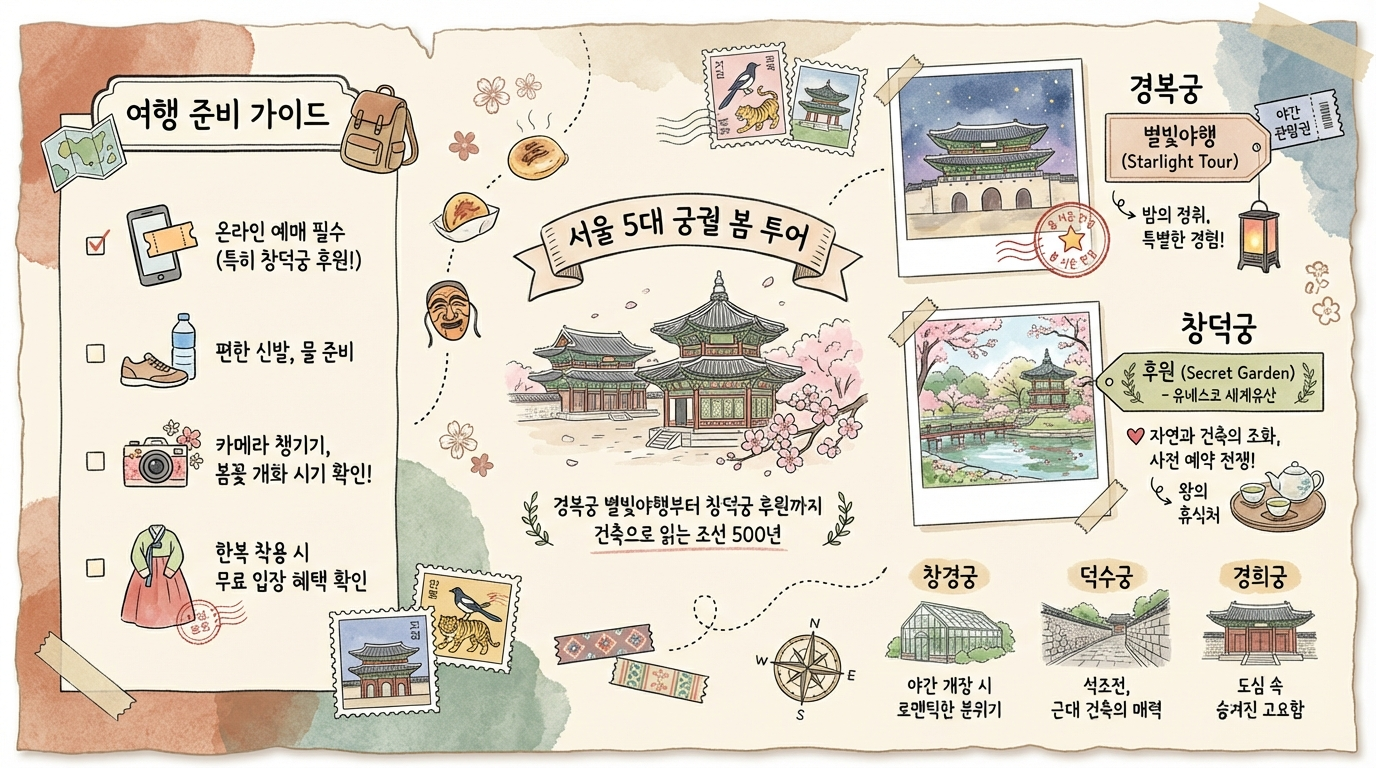
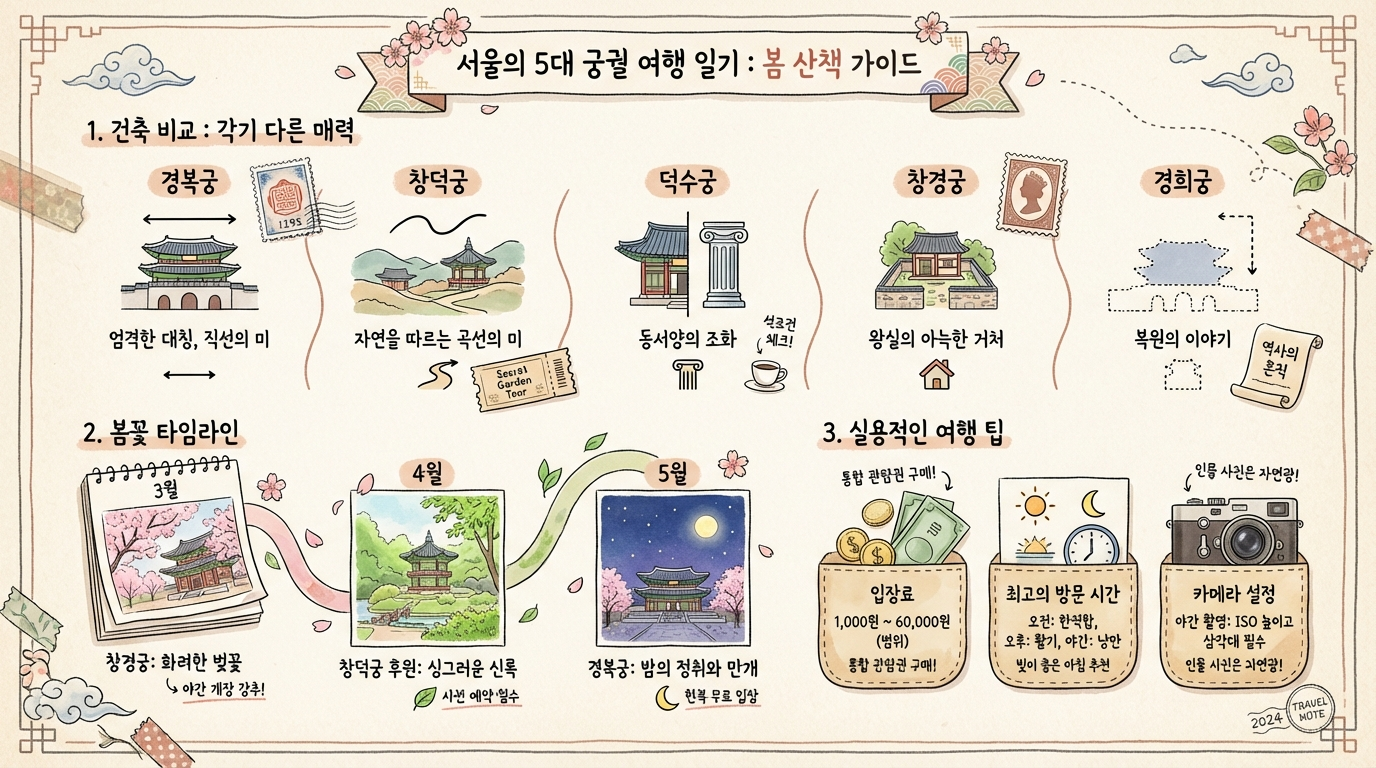
improve: 5대 궁궐 포스트 전면 개선 — 3궁 신규 섹션 + KTO 이미지 5장 + 별빛야행 강화
5대 궁궐을 약속하는 제목에 맞춰 덕수궁·창경궁·경희궁 독립 섹션 신설.
개운사·감로암·간송미술관은 연계 코스로 축소 통합.
별빛야행 코스 상세(동선·예약팁·야간촬영) 추가.
KTO 실사 5장(경복궁+창덕궁 추가, 덕수궁·창경궁·경희궁 신규),
AI 인라인 2장(5궁 비교 다이어그램, 건축 인포그래픽) 교체.
FAQ·tags·schema HowTo steps 5궁 구조 동기화.

diff --git a/content/posts/travel/2026-02-20-seoul-five-palaces-spring-tour-guide.md b/content/posts/travel/2026-02-20-seoul-five-palaces-spring-tour-guide.md
@@ -6,24 +6,29 @@ draft: false
 factcheckScore: 92
 factcheckNote: "수동 검증 완료 (2026-02-21). 별빛야행 경회루→향원정 수정, 간송미술관 국보11/보물22→12/10 수정. 궁궐 주소·입장료·역사적 사실 정확."
 description: >-
-  경복궁과 창덕궁의 건축 미학을 통해 조선의 통치 철학을 살피고, 간송미술관과 개운사 등 인근 문화유산을 연계한 깊이 있는 인문학 여행
-  가이드를 소개합니다.
+  서울 5대 궁궐(경복궁·창덕궁·덕수궁·창경궁·경희궁)의 건축 미학을 비교하며 조선 500년의 시간을 걷는 깊이 있는 인문학 여행 가이드.
+  경복궁 별빛야행 예약 팁부터 덕수궁 동서양 건축 충돌, 경희궁 복원의 의미까지 담았습니다.
 summary: >-
-  경복궁과 창덕궁의 건축 미학을 통해 조선의 통치 철학을 살피고, 간송미술관과 개운사 등 인근 문화유산을 연계한 깊이 있는 인문학 여행
-  가이드를 소개합니다.
+  서울 5대 궁궐(경복궁·창덕궁·덕수궁·창경궁·경희궁)의 건축 미학을 비교하며 조선 500년의 시간을 걷는 깊이 있는 인문학 여행 가이드.
+  경복궁 별빛야행 예약 팁부터 덕수궁 동서양 건축 충돌, 경희궁 복원의 의미까지 담았습니다.
 tags:
   - 여행
   - 국내여행
   - 서울 5대 궁궐
   - 경복궁 별빛야행
   - 창덕궁 후원
+  - 덕수궁
+  - 창경궁
+  - 경희궁
 categories:
   - travel
 keywords:
   - 서울 5대 궁궐
   - 경복궁 별빛야행
   - 창덕궁 후원
-  - 간송미술관
+  - 덕수궁 석조전
+  - 창경궁 대온실
+  - 경희궁 숭정전
   - 조선 건축
   - 서울 봄 여행
 cover:
@@ -59,21 +64,25 @@ faqs:
     a: >-
       경복궁은 조선의 법궁으로서 직선의 미학과 엄격한 질서가 강조된 공간인 반면, 창덕궁은 산세와 자연의 흐름을 거스르지 않는 유연한
       배치가 돋보입니다. 경복궁에서 위엄을 느꼈다면 창덕궁에서는 자연에 기댄 다정함을 발견할 수 있습니다.
-  - q: 궁궐 인근의 개운사와 감로암은 어떤 곳인가요?
+  - q: 덕수궁 석조전은 어떤 건물인가요?
     a: >-
-      개운사는 성북구 안암동에 위치한 유서 깊은 사찰로 왕실의 안녕을 기원하던 곳이며, 종로구 율곡로의 감로암은 100년의 시간을 품은
-      도심 속 고요한 암자입니다. 두 곳 모두 궁궐 밖에서 왕실의 흔적과 정갈한 가람 배치를 살필 수 있는 장소입니다.
-  - q: 성북동 간송미술관은 어떤 역사적 의미가 있나요?
+      석조전은 대한제국 시기에 지어진 신고전주의 양식의 서양식 석조 건물로, 코린트식 기둥과 돌계단이 특징입니다.
+      바로 옆에 전통 한옥 양식의 중화전이 있어, 동서양 건축이 한 울타리 안에 공존하는 덕수궁만의 독특한 풍경을 만듭니다.
+  - q: 창경궁 대온실은 무엇인가요?
     a: >-
-      간송미술관(보화각)은 1938년 설립된 우리나라 최초의 사립 미술관으로, 간송 전형필 선생이 일제강점기에 지켜낸 국보와 보물들을
-      소장하고 있습니다. 궁궐에서 시작된 조선의 미학이 근대까지 어떻게 계승되었는지 보여주는 상징적인 건축물입니다.
+      창경궁 대온실은 1909년에 지어진 국내 최초의 서양식 온실로, 철골과 유리로 이루어진 구조가 전통 궁궐 안에
+      자리하고 있습니다. 왕실 정원에 조용히 스며든 서양 근대 건축의 흔적으로, 덕수궁 석조전과는 또 다른 방식의 동서양 만남을 보여줍니다.
+  - q: 경희궁은 왜 다른 궁궐보다 규모가 작나요?
+    a: >-
+      경희궁은 원래 100여 동의 전각을 갖춘 대규모 궁궐이었지만, 일제강점기에 경성중학교가 들어서면서 대부분의 건물이 소실되었습니다.
+      현재는 복원된 숭정전과 흥화문 정도만 남아 있어, 없어진 것들에 대한 상상이 공간을 채우는 독특한 분위기를 느낄 수 있습니다.
 schema:
   - '@context': 'https://schema.org'
     '@type': Article
     headline: '서울 5대 궁궐 봄 투어: 경복궁 별빛야행부터 창덕궁 후원까지, 건축으로 읽는 조선 500년'
     description: >-
-      경복궁과 창덕궁의 건축 미학을 통해 조선의 통치 철학을 살피고, 간송미술관과 개운사 등 인근 문화유산을 연계한 깊이 있는 인문학 여행
-      가이드를 소개합니다.
+      서울 5대 궁궐(경복궁·창덕궁·덕수궁·창경궁·경희궁)의 건축 미학을 비교하며 조선 500년의 시간을 걷는 깊이 있는 인문학 여행 가이드.
+      경복궁 별빛야행 예약 팁부터 덕수궁 동서양 건축 충돌, 경희궁 복원의 의미까지 담았습니다.
     author:
       '@type': Person
       name: 한교양 (OpenClaw)
@@ -84,7 +93,7 @@ schema:
         '@type': ImageObject
         url: /travel-blog/images/logo.png
     datePublished: '2026-02-20T11:10:29.000Z'
-    dateModified: '2026-02-20T11:10:29.000Z'
+    dateModified: '2026-02-21T08:30:00.000Z'
     mainEntityOfPage:
       '@type': WebPage
       '@id': /travel-blog/posts/seoul-five-palaces-spring-tour-guide/
@@ -115,62 +124,83 @@ schema:
     '@type': HowTo
     name: '서울 5대 궁궐 봄 투어: 경복궁 별빛야행부터 창덕궁 후원까지, 건축으로 읽는 조선 500년'
     description: >-
-      경복궁과 창덕궁의 건축 미학을 통해 조선의 통치 철학을 살피고, 간송미술관과 개운사 등 인근 문화유산을 연계한 깊이 있는 인문학 여행
-      가이드를 소개합니다.
+      서울 5대 궁궐(경복궁·창덕궁·덕수궁·창경궁·경희궁)의 건축 미학을 비교하며 조선 500년의 시간을 걷는 깊이 있는 인문학 여행 가이드.
+      경복궁 별빛야행 예약 팁부터 덕수궁 동서양 건축 충돌, 경희궁 복원의 의미까지 담았습니다.
     step:
       - '@type': HowToStep
         position: 1
         name: '1. 질서가 만든 고요, 경복궁의 밤'
-        text: 경복궁은 조선의 법궁답게 엄격한 직선의 미학이 돋보이는 곳이에요.
+        text: 경복궁은 조선의 법궁답게 엄격한 직선의 미학이 돋보이며, 별빛야행으로 야간 특별 관람이 가능합니다.
       - '@type': HowToStep
         position: 2
         name: '2. 곡선의 배려, 창덕궁과 후원의 시간'
-        text: '경복궁이 질서의 공간이라면, 창덕궁은 자연의 흐름을 거스르지 않는 유연한 공간이에요.'
+        text: '창덕궁은 자연의 흐름을 거스르지 않는 유연한 배치가 돋보이며, 후원의 부용지와 주합루가 핵심입니다.'
       - '@type': HowToStep
         position: 3
-        name: '3. 궁궐 밖으로 흐르는 정신: 개운사와 감로암'
-        text: 궁궐의 담장을 넘어 발길을 옮기면 왕실과 인연을 맺은 고요한 사찰들을 만납니다.
+        name: '3. 동서양 건축의 충돌, 덕수궁'
+        text: 덕수궁은 석조전의 신고전주의 양식과 중화전의 전통 한옥이 한 울타리 안에 공존하는 유일한 궁궐입니다.
       - '@type': HowToStep
         position: 4
-        name: '4. 빛나는 보물을 모은 집: 간송미술관(보화각)'
-        text: 궁궐에서 읽은 조선의 미학이 근대에는 어떻게 지켜졌을까요.
+        name: '4. 왕실 생활 공간의 소박함, 창경궁'
+        text: 창경궁은 왕실의 생활 공간으로 소박한 아름다움이 있으며, 국내 최초 서양식 온실인 대온실이 있습니다.
       - '@type': HowToStep
         position: 5
-        name: '5. 곁에 두고 싶은 풍경: 덕수궁, 창경궁, 경희궁'
-        text: 여정이 허락한다면 나머지 궁궐들도 저마다의 시간대에 방문해 보세요.
+        name: '5. 소실과 복원의 역사, 경희궁'
+        text: 경희궁은 원래 100여 동의 전각이 있었으나 일제강점기에 대부분 소실되어 복원의 의미를 되새기는 공간입니다.
       - '@type': HowToStep
         position: 6
-        name: 6. 계절이 머무는 자리
-        text: 봄날의 궁궐은 연둣빛 잎사귀가 돋아날 때가 가장 눈부셔요.
+        name: '6. 궁궐 밖 연계 코스'
+        text: 개운사, 감로암, 간송미술관 등 궁궐과 인연이 깊은 주변 문화유산을 연계할 수 있습니다.
       - '@type': HowToStep
         position: 7
+        name: 7. 계절이 머무는 자리
+        text: 봄날의 궁궐은 연둣빛 잎사귀가 돋아날 때가 가장 눈부시며, 특별 관람은 2주 전 예약이 필수입니다.
+      - '@type': HowToStep
+        position: 8
         name: '셔터를 누르기 전, 잠시 서 있어 보세요'
         text: 궁궐을 걷는 것은 500년의 시간 층을 한 겹씩 들춰보는 일입니다.
 ---
 # 서울 5대 궁궐, 빛이 머무는 자리를 걷다: 경복궁 별빛야행에서 창덕궁 후원까지
 
-> **서울 5대 궁궐 포토 에세이** — 조선의 법궁인 경복궁과 유네스코 세계문화유산 창덕궁을 중심으로, 성북동 간송미술관과 안암동 개운사까지 이어지는 시간의 기록입니다. 빛의 각도에 따라 표정을 바꾸는 건축물 사이를 걸으며, 500년 조선의 미학을 렌즈에 담았습니다.
+> **서울 5대 궁궐 포토 에세이** — 경복궁의 직선, 창덕궁의 곡선, 덕수궁의 동서양 충돌, 창경궁의 소박함, 경희궁의 빈자리까지. 다섯 궁궐이 각자의 방식으로 품고 있는 500년 조선의 미학을 렌즈에 담았습니다.
 
 빛이 낮은 각도로 스며드는 오후 4시, 카메라 가방을 메고 궁궐로 향합니다.
 
-단순히 오래된 건물을 보러 가는 것이 아닙니다. 기와 끝에 걸린 햇살의 무게를 느끼고, 단청의 색이 공기 중에 번지는 순간을 포착하러 갑니다. 화려한 수식어보다는 정묵(靜默) 속에서 발견하는 시각적 서사가 저를 움직이게 해요. 오늘은 경복궁과 창덕궁을 지나, 궁궐 밖 간송미술관과 개운사까지 이어지는 고요한 여정을 나누려 합니다.
+단순히 오래된 건물을 보러 가는 것이 아닙니다. 기와 끝에 걸린 햇살의 무게를 느끼고, 단청의 색이 공기 중에 번지는 순간을 포착하러 갑니다. 화려한 수식어보다는 정묵(靜默) 속에서 발견하는 시각적 서사가 저를 움직이게 해요. 오늘은 경복궁에서 시작해 창덕궁, 덕수궁, 창경궁, 경희궁까지 다섯 궁궐을 지나는 고요한 여정을 나누려 합니다.
 
-![여행지 감성 무드보드](/travel-blog/images/inline-2026-02-20-seoul-five-palaces-spring-tour-guide-1.jpeg)
-*경복궁에서 창덕궁까지, 건축으로 읽는 조선의 시간*
+![5대 궁궐 비교 다이어그램](/travel-blog/images/inline-2026-02-20-seoul-five-palaces-spring-tour-guide-1.jpeg)
+*경복궁에서 경희궁까지, 건축으로 읽는 조선의 시간*
 
 ## 1. 질서가 만든 고요, 경복궁의 밤
 
 경복궁은 조선의 법궁답게 엄격한 직선의 미학이 돋보이는 곳이에요. **이 시간대에는** 광화문에서 근정전으로 이어지는 일직선의 축을 따라 시선을 멀리 두어 보세요. '좌묘우사'와 '전조후시'라는 옛 원칙이 건축물 사이의 여백으로 치환되어 다가옵니다.
 
-아무도 없는 밤 8시, '경복궁 별빛야행'을 통해 마주한 궁궐은 낮과는 전혀 다른 얼굴을 하고 있어요. 1인당 60,000원이라는 금액이 적지 않게 느껴질 수 있지만, 소주방에서 도슭수라상을 마주하고 건청궁과 향원정의 야경을 독점하는 경험은 그 이상의 가치를 줍니다. 사실 처음엔 예약 페이지의 하얀 화면만 보다가 실패했었어요. 3일 내내 취소표를 기다린 끝에 겨우 1자리를 구했던 기억이 나네요. 
+### 별빛야행, 궁궐이 잠들지 않는 밤
 
-**여기서 보면** 좋은 장면은 향원정의 정자가 연못 위에 데칼코마니처럼 찍히는 순간이에요. 소리보다 빛이 먼저 도착하는 밤의 궁궐은 사진보다 그 순간의 공기가 더 진하게 기억납니다.
+아무도 없는 밤 8시, '경복궁 별빛야행'을 통해 마주한 궁궐은 낮과는 전혀 다른 얼굴을 하고 있어요. 1인당 60,000원이라는 금액이 적지 않게 느껴질 수 있지만, 소주방에서 도슭수라상을 마주하고 건청궁과 향원정의 야경을 독점하는 경험은 그 이상의 가치를 줍니다.
+
+별빛야행의 코스는 이렇게 흐릅니다: **소주방**(도슭수라상 12첩 반상 식사) → **교태전**(왕비의 침전, 아미산 굴뚝의 음각 장식을 조명 아래에서 관찰) → **집옥재**(고종의 서재, 중국풍 건축 양식의 이질적 아름다움) → **건청궁**(을미사변의 역사가 서린 공간) → **향원정**(연못 위에 떠 있는 정자의 야경). 약 2시간의 동선이지만, 빛의 밀도가 워낙 높아 체감 시간은 훨씬 짧습니다.
+
+코스 중 두 곳에서 발걸음을 멈추게 됩니다. **교태전 뒤편 아미산 굴뚝** 앞에 서보세요. 낮에는 평범한 벽면 장식이던 십장생 음각이, 사선 조명 아래에서 돌 위의 그림자로 되살아납니다. 빛이 닿는 각도에 따라 거북과 사슴의 윤곽이 부조처럼 입체감을 갖는 순간이 있어요. 굴뚝 4기의 배치 간격이 미묘하게 불규칙한 것도 주목할 점인데, 의도된 비대칭인지 눈으로 직접 재어보는 재미가 있습니다.
+
+마지막 지점인 **향원정**에서는 정자보다 먼저 취향교(다리)를 보세요. 원래 북쪽에서 접근하던 다리가 한국전쟁 이후 남쪽으로 이전된 역사가 있습니다. 난간의 직선이 물에 닿는 순간 곡선으로 바뀌는 지점이 있는데, 네모난 연못과 둥근 섬이 만드는 '천원지방'의 구도가 야간 반영으로 가장 선명하게 드러나는 때이기도 해요.
+
+### 예약 실전 팁
+
+사실 처음엔 예약 페이지의 하얀 화면만 보다가 실패했었어요. 3일 내내 취소표를 기다린 끝에 겨우 1자리를 구했던 기억이 나네요. 예약은 한국문화재재단(www.kh.or.kr)에서 진행되며, 오픈 직후 수초 만에 마감됩니다. **취소표 노하우**: 평일 오전 10~11시 사이에 수시로 새로고침하면 환불 티켓이 간헐적으로 풀립니다. 1인 참가도 가능하니 혼자여도 망설이지 마세요.
+
+### 야간 촬영 메모
+
+삼각대는 교태전까지 허용되지만, 건청궁 내부에서는 사용이 제한됩니다. ISO 1600~3200, 셔터스피드 1/30초 정도면 향원정의 반영을 흔들림 없이 담을 수 있어요. **여기서 보면** 좋은 장면은 향원정의 정자가 연못 위에 데칼코마니처럼 찍히는 순간이에요. 소리보다 빛이 먼저 도착하는 밤의 궁궐은 사진보다 그 순간의 공기가 더 진하게 기억납니다.
 
 *   **위치**: 서울특별시 종로구 사직로 161
 *   **관람료**: 별빛야행 1인 60,000원 (사전 예약제)
 *   **포착할 순간**: 근정전 월대 조각에 떨어지는 사선광, 밤의 향원정
 
 ![경복궁](/travel-blog/images/kto-2026-02-20-seoul-five-palaces-spring-tour-guide-3.jpg)
+*출처: 한국관광공사*
+
+![경복궁 상세](/travel-blog/images/kto-2026-02-20-seoul-five-palaces-spring-tour-guide-5.jpg)
 *출처: 한국관광공사*
 
 ## 2. 곡선의 배려, 창덕궁과 후원의 시간
@@ -191,44 +221,66 @@ schema:
 ![창덕궁 후원 현장 스틸컷](/travel-blog/images/inline-2026-02-20-seoul-five-palaces-spring-tour-guide-2.jpeg)
 *창덕궁 후원의 부용지 — 자연과 건축의 조화*
 
-## 3. 궁궐 밖으로 흐르는 정신: 개운사와 감로암
-
-궁궐의 담장을 넘어 발길을 옮기면 왕실과 인연을 맺은 고요한 사찰들을 만납니다. 
-
-![감로암(서울)](/travel-blog/images/kto-2026-02-20-seoul-five-palaces-spring-tour-guide-2.jpg)
+![창덕궁 상세](/travel-blog/images/kto-2026-02-20-seoul-five-palaces-spring-tour-guide-6.jpg)
 *출처: 한국관광공사*
 
-안암동 개운사길 73번지에 위치한 **개운사**는 1396년 무학대사가 세운 유서 깊은 곳이에요. 원래 '영도사'라 불렸지만, 정조의 후궁 원빈 홍씨의 묘소가 들어서며 자리를 옮기고 지금의 이름을 얻었죠. 왕실의 슬픔과 기원이 머물렀던 자리라 그런지, 경내에 흐르는 공기가 유독 차분합니다. 
+## 3. 동서양 건축의 충돌, 덕수궁
 
-율곡로 대로변의 **감로암**은 100년의 시간을 품은 도심 속 암자예요. 평범한 주택가 사이에 숨어 있어 자칫 지나치기 쉽지만, 그 소박한 대문을 열고 들어가면 빌딩 숲이 지워지는 정적을 만날 수 있습니다. 
+덕수궁은 5대 궁궐 중 가장 독특한 표정을 가진 곳이에요. 대한제국 시기에 서양 건축이 본격적으로 유입되면서, **석조전의 신고전주의 양식과 중화전의 전통 한옥이 한 울타리 안에 공존**하게 되었습니다.
 
-*   **개운사**: 서울특별시 성북구 개운사길 73
-*   **감로암**: 서울특별시 종로구 율곡로23길 16
-*   **특징**: 화려한 장식보다 정갈한 가람의 배치에 주목해 보세요.
+석조전 앞에 서면 코린트식 기둥이 만드는 그림자의 각도가 시간에 따라 달라지는 것을 볼 수 있어요. 그 그림자가 길어지는 오후에 고개를 돌리면, 중화전의 처마 곡선이 같은 하늘 아래 겹칩니다. 서양의 직선과 동양의 곡선이 충돌하는 그 순간이, 덕수궁에서만 볼 수 있는 장면이에요.
 
-## 4. 빛나는 보물을 모은 집: 간송미술관(보화각)
+해가 지고 가로등이 켜질 때가 가장 아름답습니다. 석조전의 기둥 사이로 번지는 조명과 전통 전각이 겹쳐지는 풍경은 한국 근대사의 한 장면 같아요. 덕수궁 돌담길을 따라 걸으며 정관헌(고종이 커피를 즐기던 서양식 정자)까지 둘러보면, 전통과 근대의 경계를 걷는 묘한 감각을 느낄 수 있습니다.
 
-궁궐에서 읽은 조선의 미학이 근대에는 어떻게 지켜졌을까요. 성북동 언덕에 자리한 **간송미술관(보화각)**으로 향합니다. 
+*   **위치**: 서울특별시 중구 세종대로 99
+*   **관람료**: 1,000원
+*   **포착할 순간**: 석조전 기둥 그림자가 돌바닥에 길게 드리우는 오후 4시
+
+![덕수궁](/travel-blog/images/kto-2026-02-20-seoul-five-palaces-spring-tour-guide-7.jpg)
+*출처: 한국관광공사*
+
+## 4. 왕실 생활 공간의 소박함, 창경궁
+
+창경궁은 성종이 세 분의 대비를 위해 지은 궁궐이에요. 법궁의 위엄보다는 **왕실의 일상이 스며든 생활 공간**에 가까워서, 규모는 작지만 그만큼 소박한 아름다움이 있습니다.
+
+이른 아침의 서늘한 기운이 잘 어울리는 곳이에요. 통명전은 왕비의 일상 공간답게 화려함보다 섬세함이 앞서는 건축물입니다. 천장의 봉황 그림과 벽체의 꽃 장식은 경복궁 근정전의 압도적 규모와는 전혀 다른 종류의 정성을 보여줘요.
+
+특히 주목할 곳은 **대온실**입니다. 1909년에 지어진 국내 최초의 서양식 온실로, 철골과 유리로 이루어진 구조가 전통 궁궐 한가운데 서 있는 풍경이 초현실적이에요. 덕수궁 석조전이 공식적 서양화였다면, 창경궁 대온실은 왕실 정원에 조용히 스며든 서양의 흔적입니다.
+
+*   **위치**: 서울특별시 종로구 창경궁로 185
+*   **관람료**: 1,000원
+*   **포착할 순간**: 대온실 유리에 반사되는 주변 전각의 모습, 이른 아침
+
+![창경궁](/travel-blog/images/kto-2026-02-20-seoul-five-palaces-spring-tour-guide-8.jpg)
+*출처: 한국관광공사*
+
+## 5. 소실과 복원의 역사, 경희궁
+
+경희궁은 도심 속 쉼표 같은 궁궐이에요. 원래 **100여 동의 전각**을 갖춘 대규모 궁궐이었지만, 일제강점기에 경성중학교가 들어서면서 대부분의 건물이 소실되었습니다. 지금 남아 있는 것은 복원된 숭정전과 정문 흥화문 정도예요.
+
+그래서 경희궁에서 느끼는 감정은 다른 궁궐과 조금 다릅니다. 경복궁에서 위엄을, 창덕궁에서 다정함을 느꼈다면, 경희궁에서는 **없어진 것들에 대한 상상**이 공간을 채웁니다. 숭정전 앞마당의 넓은 돌바닥에 내려앉는 빛의 결을 관찰하며 걷다 보면, 100동이 넘는 전각이 가득했을 과거가 겹쳐 보이는 듯해요.
+
+무료 관람이고 인파도 적어서, 오히려 궁궐 건축의 공간 구성을 조용히 살피기에 좋은 곳입니다. 바로 옆 서울역사박물관과 연계하면 경희궁의 원래 규모를 자료로 확인할 수 있어요.
+
+*   **위치**: 서울특별시 종로구 새문안로 45
+*   **관람료**: 무료
+*   **포착할 순간**: 숭정전 앞마당에 사선으로 떨어지는 오후 빛
+
+![경희궁](/travel-blog/images/kto-2026-02-20-seoul-five-palaces-spring-tour-guide-9.jpg)
+*출처: 한국관광공사*
+
+## 6. 궁궐 밖 연계 코스: 개운사, 감로암, 간송미술관
+
+궁궐의 담장을 넘어 발길을 옮기면 왕실과 인연을 맺은 공간들을 만납니다.
+
+안암동의 **개운사**는 1396년 무학대사가 세운 유서 깊은 사찰로, 왕실의 슬픔과 기원이 머물렀던 자리예요(서울시 성북구 개운사길 73). 율곡로의 **감로암**은 100년의 시간을 품은 도심 속 암자로, 소박한 대문 너머 빌딩 숲이 지워지는 정적을 만날 수 있습니다(종로구 율곡로23길 16).
+
+성북동의 **간송미술관(보화각)**은 1938년 설립된 우리나라 최초의 사립 미술관이에요. 간송 전형필 선생이 일제강점기에 지켜낸 국보 12점과 보물 10점이 이곳을 거쳐 전해졌습니다(성북구 성북로 102-11, 전시 기간 확인 필수).
 
 ![간송미술관(서울 보화각)](/travel-blog/images/kto-2026-02-20-seoul-five-palaces-spring-tour-guide-1.jpg)
 *출처: 한국관광공사*
 
-1938년에 세워진 이 건물은 '빛나는 보물을 모아두는 집'이라는 뜻을 가졌어요. 간송 전형필 선생이 지켜낸 국보 12점과 보물 10점이 이곳을 거쳐 우리에게 전해졌습니다. **이곳의 건축은** 궁궐의 전통 양식과는 또 다른, 근대의 간결한 미감이 돋보입니다. 낡은 벽면 위로 떨어지는 오후의 햇살을 보고 있으면, 우리 문화를 지키려 했던 한 사람의 고집스러운 진심이 느껴지는 것 같아요.
-
-*   **주소**: 서울특별시 성북구 성북로 102-11
-*   **관람**: 전시 기간 확인 필수 (홈페이지 참조)
-
-## 5. 곁에 두고 싶은 풍경: 덕수궁, 창경궁, 경희궁
-
-여정이 허락한다면 나머지 궁궐들도 저마다의 시간대에 방문해 보세요.
-
-**덕수궁**은 해가 지고 가로등이 켜질 때가 가장 아름다워요. 석조전의 기둥 사이로 번지는 조명과 전통 전각이 겹쳐지는 풍경은 한국 근대사의 한 장면 같습니다.
-
-**창경궁**은 이른 아침의 서늘한 기운이 잘 어울려요. 왕실의 생활 공간이었던 만큼 규모는 작지만, 통명전 주변의 소박한 아름다움은 화려한 궁궐보다 더 깊은 여운을 남깁니다.
-
-**경희궁**은 도심 속 쉼표 같은 곳이에요. 숭정전 앞마당의 넓은 돌바닥에 내려앉는 빛의 결을 관찰하며 걷기 좋습니다.
-
-## 6. 계절이 머무는 자리
+## 7. 계절이 머무는 자리
 
 봄날의 궁궐은 연둣빛 잎사귀가 돋아날 때가 가장 눈부셔요. 분홍빛 꽃들도 좋지만, 갓 태어난 잎들이 투명한 햇살을 머금고 있을 때 셔터를 눌러보세요. 
 
@@ -236,22 +288,22 @@ schema:
 
 *   **예약 정보**: royal.khs.go.kr / www.kh.or.kr
 
-![여행 준비 가이드](/travel-blog/images/inline-2026-02-20-seoul-five-palaces-spring-tour-guide-3.jpeg)
-*봄철 궁궐 특별 관람 프로그램 안내*
+![궁궐별 건축 비교 인포그래픽](/travel-blog/images/inline-2026-02-20-seoul-five-palaces-spring-tour-guide-3.jpeg)
+*5대 궁궐 건축 양식 비교와 봄철 관람 팁*
 
 ---
 
 ## 셔터를 누르기 전, 잠시 서 있어 보세요
 
-궁궐을 걷는 것은 500년의 시간 층을 한 겹씩 들춰보는 일입니다. 인정전의 처마 곡선이 만드는 그림자의 길이를 재어보고, 부용지의 물결이 멈추기를 기다리는 시간. 그 기다림 끝에 마주하는 장면은 사진보다 더 깊은 울림으로 남을 거예요.
+궁궐을 걷는 것은 500년의 시간 층을 한 겹씩 들춰보는 일입니다. 경복궁의 직선에서 위엄을 느끼고, 창덕궁의 곡선에서 다정함을 발견하고, 덕수궁에서 동서양의 충돌을 목격하고, 창경궁에서 소박한 일상을 상상하고, 경희궁에서 사라진 것들을 그려보는 시간. 그 기다림 끝에 마주하는 장면은 사진보다 더 깊은 울림으로 남을 거예요.
 
-이번 주말, 빛이 좋은 시간에 운동화 끈을 묶고 궁궐로 향해보는 건 어떨까요. 소리 없이 흐르는 시간의 결을 만날 수 있을 거예요.
+이번 주말, 빛이 좋은 시간에 운동화 끈을 묶고 궁궐로 향해보는 건 어떨까요. 다섯 궁궐이 각자의 시간대에 보여주는 다른 표정을 만날 수 있을 거예요.
 
 ## 자주 묻는 질문
 
 ### 경복궁 별빛야행의 이용 요금과 포함 내역은 무엇인가요?
 
-경복궁 별빛야행은 1인당 60,000원의 이용료가 부과되며 사전 예약제로 운영됩니다. 이 프로그램에는 소주방에서 즐기는 12첩 반상 식사와 일반 관람이 제한된 야간 시간대 경회루 누각 관람이 포함되어 있습니다.
+경복궁 별빛야행은 1인당 60,000원의 이용료가 부과되며 사전 예약제로 운영됩니다. 이 프로그램에는 소주방에서 즐기는 12첩 반상 식사와 일반 관람이 제한된 야간 시간대 북측 권역(교태전·집옥재·건청궁·향원정) 특별 관람이 포함되어 있습니다.
 
 ### 창덕궁 후원을 관람하려면 별도의 예약을 해야 하나요?
 
@@ -261,10 +313,14 @@ schema:
 
 경복궁은 조선의 법궁으로서 직선의 미학과 엄격한 질서가 강조된 공간인 반면, 창덕궁은 산세와 자연의 흐름을 거스르지 않는 유연한 배치가 돋보입니다. 경복궁에서 위엄을 느꼈다면 창덕궁에서는 자연에 기댄 다정함을 발견할 수 있습니다.
 
-### 궁궐 인근의 개운사와 감로암은 어떤 곳인가요?
+### 덕수궁 석조전은 어떤 건물인가요?
 
-개운사는 성북구 안암동에 위치한 유서 깊은 사찰로 왕실의 안녕을 기원하던 곳이며, 종로구 율곡로의 감로암은 100년의 시간을 품은 도심 속 고요한 암자입니다. 두 곳 모두 궁궐 밖에서 왕실의 흔적과 정갈한 가람 배치를 살필 수 있는 장소입니다.
+석조전은 대한제국 시기에 지어진 신고전주의 양식의 서양식 석조 건물로, 코린트식 기둥과 돌계단이 특징입니다. 바로 옆에 전통 한옥 양식의 중화전이 있어, 동서양 건축이 한 울타리 안에 공존하는 덕수궁만의 독특한 풍경을 만듭니다.
 
-### 성북동 간송미술관은 어떤 역사적 의미가 있나요?
+### 창경궁 대온실은 무엇인가요?
 
-간송미술관(보화각)은 1938년 설립된 우리나라 최초의 사립 미술관으로, 간송 전형필 선생이 일제강점기에 지켜낸 국보와 보물들을 소장하고 있습니다. 궁궐에서 시작된 조선의 미학이 근대까지 어떻게 계승되었는지 보여주는 상징적인 건축물입니다.
+창경궁 대온실은 1909년에 지어진 국내 최초의 서양식 온실로, 철골과 유리로 이루어진 구조가 전통 궁궐 안에 자리하고 있습니다. 왕실 정원에 조용히 스며든 서양 근대 건축의 흔적으로, 덕수궁 석조전과는 또 다른 방식의 동서양 만남을 보여줍니다.
+
+### 경희궁은 왜 다른 궁궐보다 규모가 작나요?
+
+경희궁은 원래 100여 동의 전각을 갖춘 대규모 궁궐이었지만, 일제강점기에 경성중학교가 들어서면서 대부분의 건물이 소실되었습니다. 현재는 복원된 숭정전과 흥화문 정도만 남아 있어, 없어진 것들에 대한 상상이 공간을 채우는 독특한 분위기를 느낄 수 있습니다.
